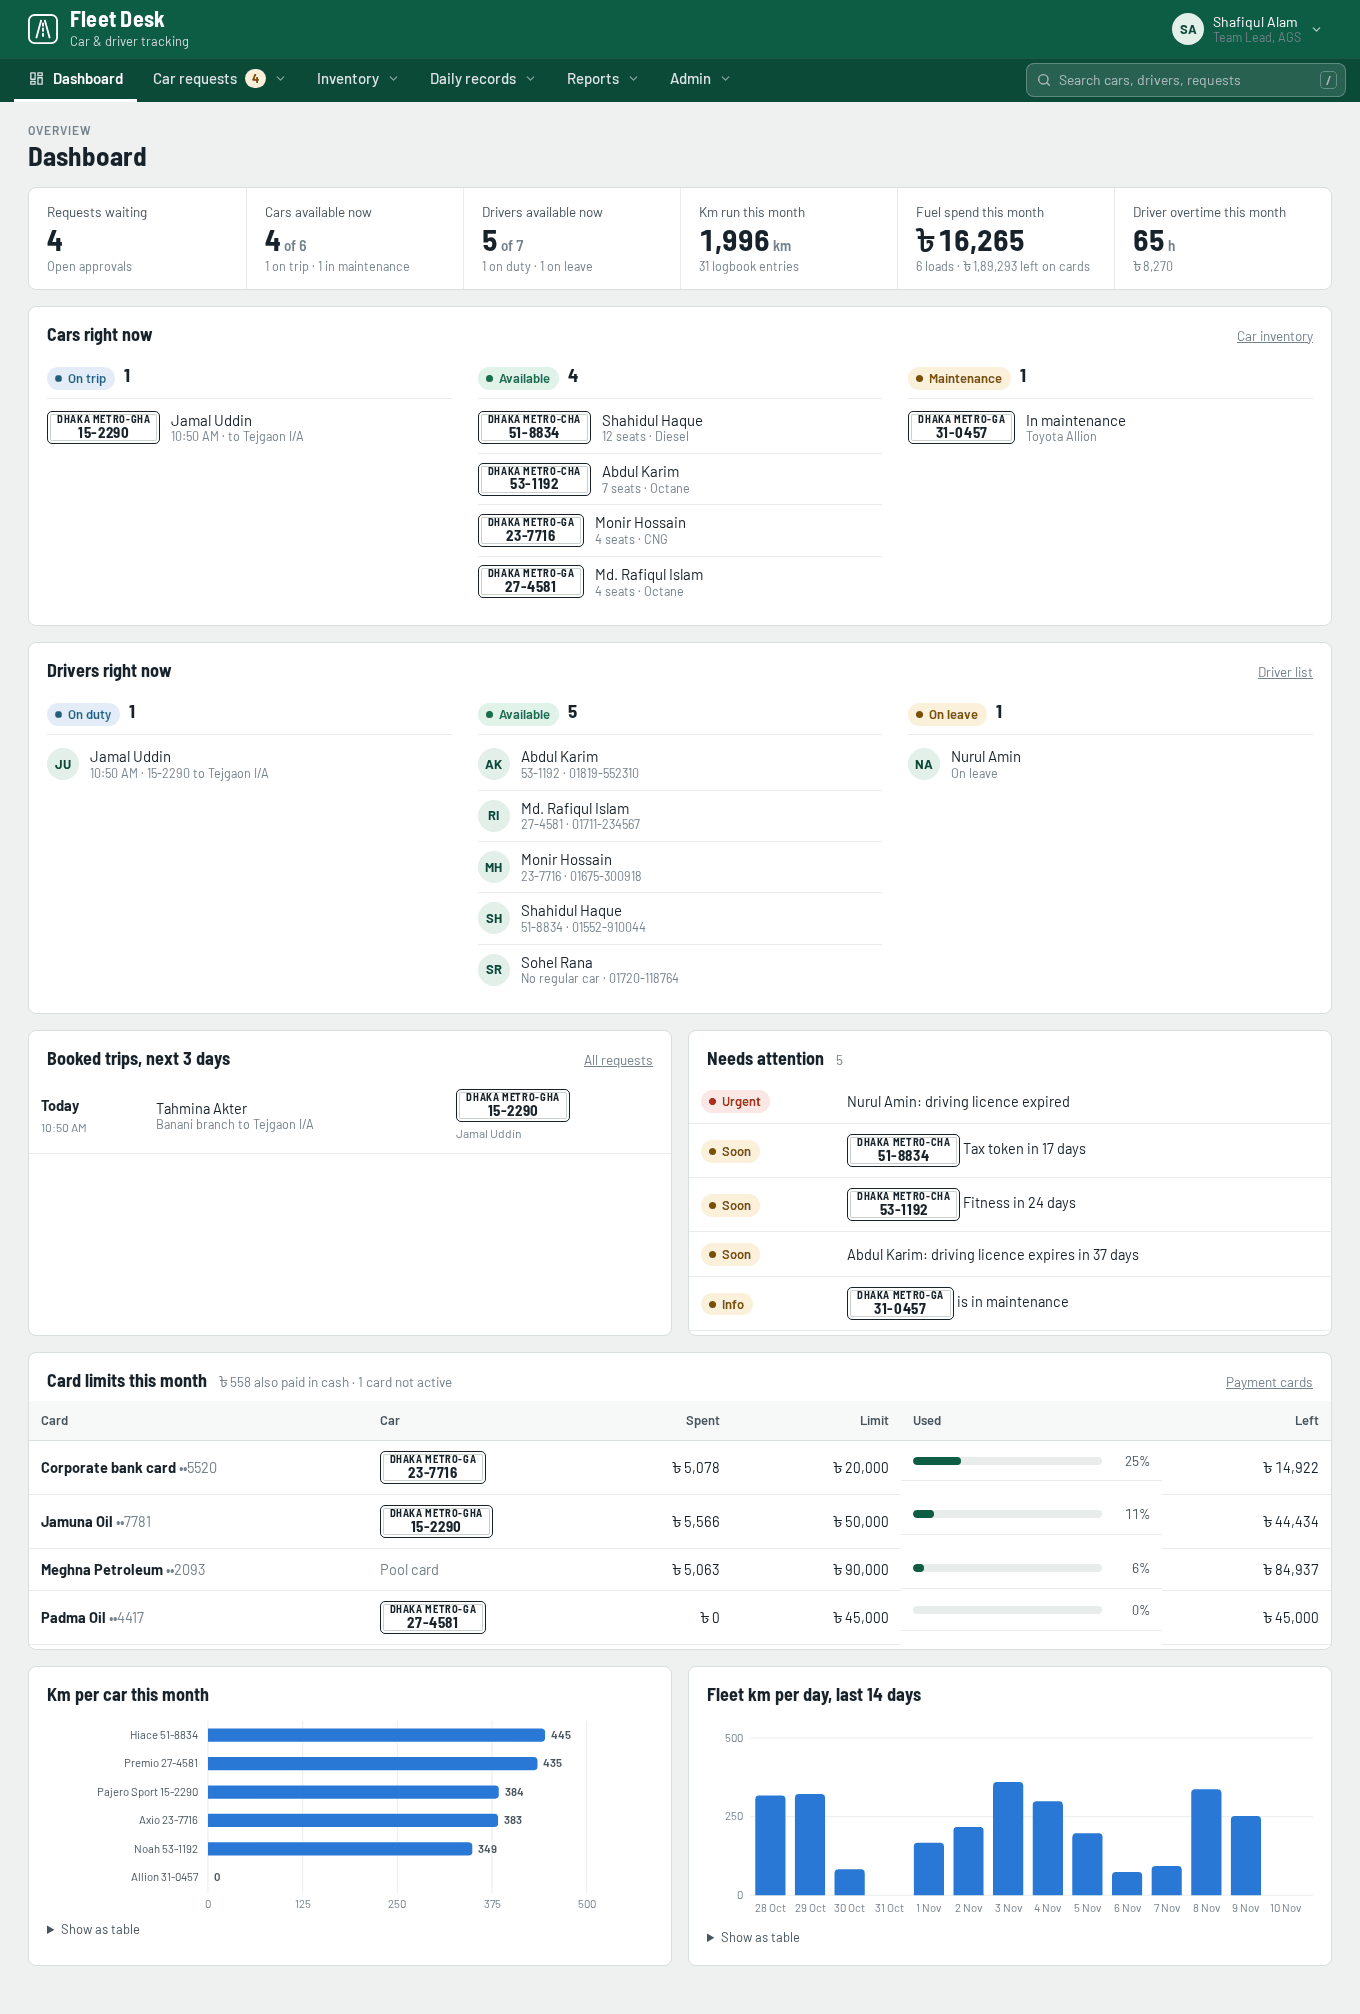
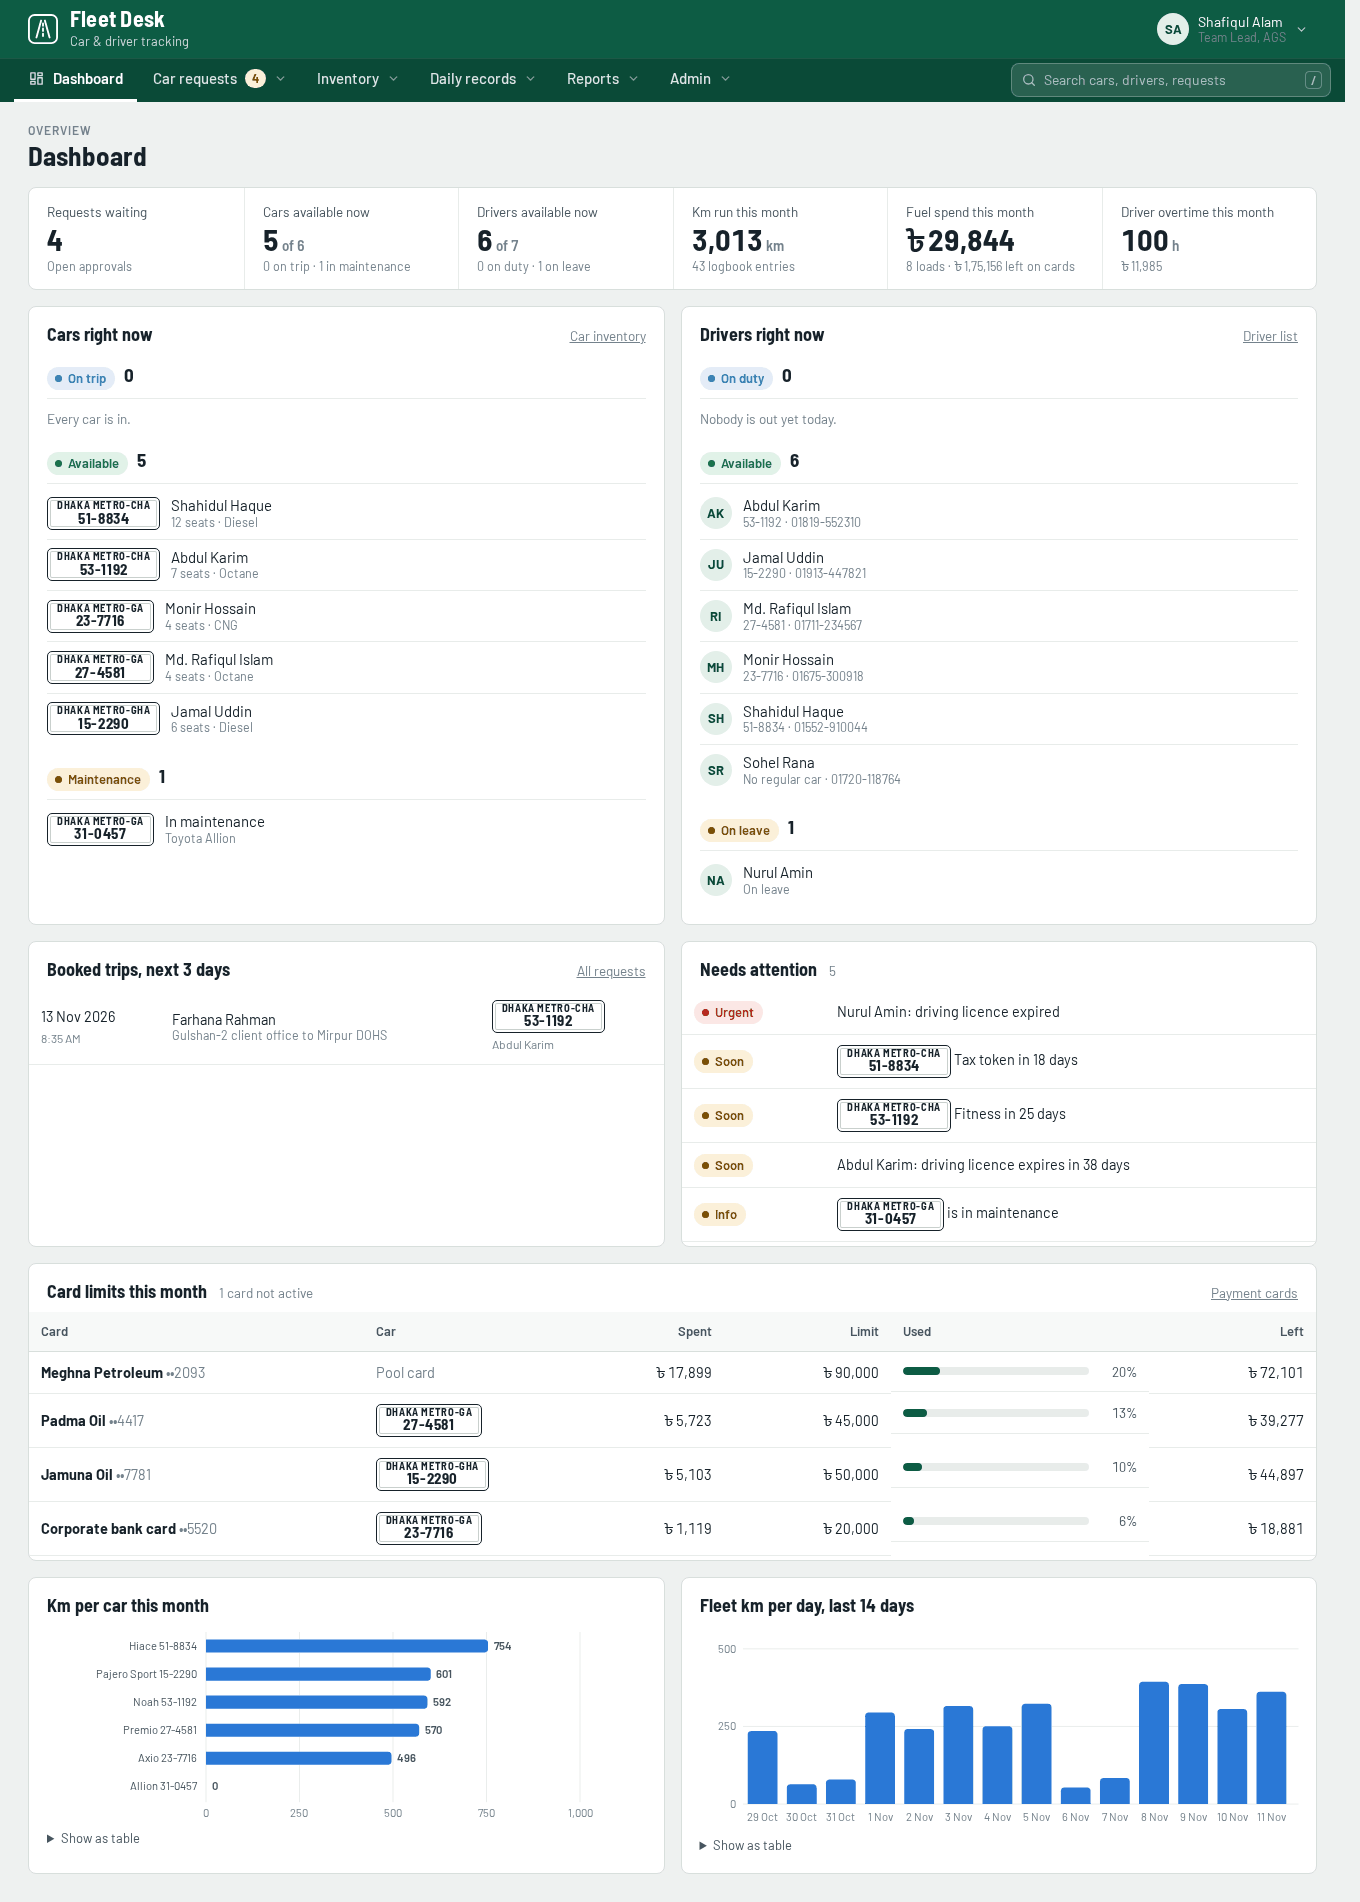
Dashboard: cars and drivers side by side
"Cars right now" and "Drivers right now" were two full-width panels stacked
one above the other, each splitting its width three ways. They now sit side
by side as two columns, and each panel stacks its three states instead —
three columns inside a half-width panel left no room for a plate, a name and
where the car had gone.

The two panels share a row height, so the pair reads as one block, and below
1100px they fall back to one above the other as every other pair on the page
does.

diff --git a/frontend/assets/js/views/dashboard.js b/frontend/assets/js/views/dashboard.js
@@ -106,27 +106,29 @@ export async function render(el) {
       <div class="kpi"><div class="kpi-label">Driver overtime this month</div><div class="kpi-value">${num(sum(ot, (x) => x.otMin) / 60)}<small>h</small></div><div class="kpi-note">${bdt(sum(ot, (x) => x.amount))}</div></div>
     </div>
 
-    <section class="panel mt">
-      <div class="panel-head"><h2>Cars right now</h2><span class="spacer"></span><a href="#cars" class="muted">Car inventory</a></div>
-      <div class="panel-body">
-        <div class="grid grid-3 fleet-now">
-          ${nowColumn('On trip', fleet.out, 'Every car is in.')}
-          ${nowColumn('Available', fleet.free, 'Every car is out or off the road.')}
-          ${nowColumn('Maintenance', fleet.off, 'Nothing off the road.')}
+    <div class="grid grid-2 mt">
+      <section class="panel">
+        <div class="panel-head"><h2>Cars right now</h2><span class="spacer"></span><a href="#cars" class="muted">Car inventory</a></div>
+        <div class="panel-body">
+          <div class="fleet-now">
+            ${nowColumn('On trip', fleet.out, 'Every car is in.')}
+            ${nowColumn('Available', fleet.free, 'Every car is out or off the road.')}
+            ${nowColumn('Maintenance', fleet.off, 'Nothing off the road.')}
+          </div>
         </div>
-      </div>
-    </section>
+      </section>
 
-    <section class="panel mt">
-      <div class="panel-head"><h2>Drivers right now</h2><span class="spacer"></span><a href="#drivers" class="muted">Driver list</a></div>
-      <div class="panel-body">
-        <div class="grid grid-3 fleet-now">
-          ${nowColumn('On duty', crew.out, 'Nobody is out yet today.', 'On trip')}
-          ${nowColumn('Available', crew.free, 'Every driver is out or away.')}
-          ${nowColumn('On leave', crew.off, 'Everyone is on the roster.')}
+      <section class="panel">
+        <div class="panel-head"><h2>Drivers right now</h2><span class="spacer"></span><a href="#drivers" class="muted">Driver list</a></div>
+        <div class="panel-body">
+          <div class="fleet-now">
+            ${nowColumn('On duty', crew.out, 'Nobody is out yet today.', 'On trip')}
+            ${nowColumn('Available', crew.free, 'Every driver is out or away.')}
+            ${nowColumn('On leave', crew.off, 'Everyone is on the roster.')}
+          </div>
         </div>
-      </div>
-    </section>
+      </section>
+    </div>
 
     <div class="grid grid-2 mt">
       <section class="panel">

diff --git a/frontend/assets/css/app.css b/frontend/assets/css/app.css
@@ -435,7 +435,9 @@ dl.facts dd { margin: 0; font-weight: 500; }
 .tab[aria-current="page"] { color: var(--sign); border-bottom-color: var(--sign); }
 
 /* Dashboard: which cars are out, free or off the road. */
-.fleet-now { gap: 16px 26px; }
+/* Cars and drivers sit side by side, so each panel stacks its three states rather
+   than splitting a half-width panel three ways. */
+.fleet-now { display: grid; gap: 18px; }
 .fleet-head { display: flex; align-items: baseline; gap: 9px; padding-bottom: 8px; margin-bottom: 4px; border-bottom: 1px solid var(--line-soft); }
 .fleet-head b { font-family: var(--font-head); font-size: 19px; }
 .fleet-car { display: flex; align-items: center; gap: 11px; padding: 8px 0; }
